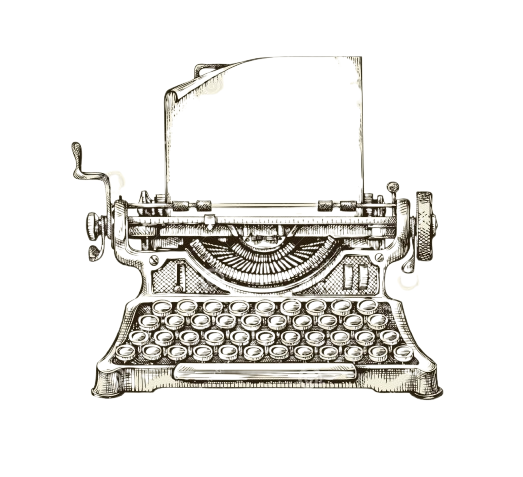
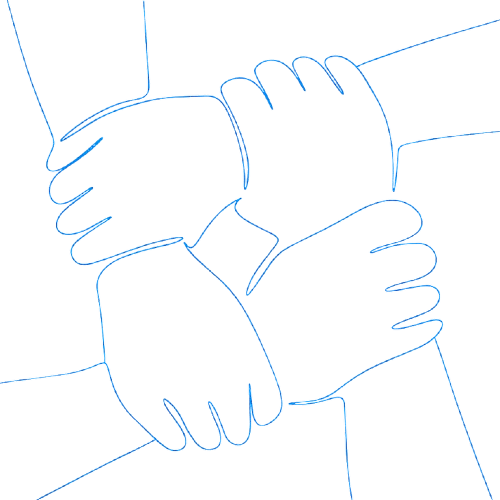
gotove sve stranice

diff --git a/Tascoder/src/pages/start/Start.css b/Tascoder/src/pages/start/Start.css
@@ -1,23 +1,136 @@
 #startNowSection {
+  margin-top: 68px;
+  margin-bottom: -25rem;
   height: 50rem;
   display: flex;
   align-items: center;
   justify-content: center;
 }
 
-#startNowTitleHolder {
+#startNowLeftside {
+  height: 100%;
+  background: linear-gradient(180deg, #256bff, #cfdfff);
   display: flex;
-  align-items: center;
+  flex-direction: column;
   justify-content: center;
-  width: 80%;
-  margin: auto;
+  align-items: center;
+  width: 50%;
+  transform: skewX(25deg);
+  z-index: -1;
+  position: relative;
+  left: -12rem;
 }
 
-#startNowTitleHolder h2 {
+#startNowDescriptionHolder {
+  display: flex;
+  flex-direction: column;
+  justify-content: space-between;
+  align-items: center;
+  height: 22rem;
+  transform: skewX(335deg);
+  width: 37rem;
+  position: relative;
+  left: 15%;
+}
+
+#startNowDescriptionHolder h3 {
   font-size: 2rem;
-  font-weight: 500;
 }
 
-#startNowTitleHolder img {
-  width: 2rem;
+#startNowDescriptionHolder p {
+  font-size: 22px;
+  width: 60%;
+}
+
+#startNowSection form {
+  width: 50%;
+  display: flex;
+  flex-direction: column;
+  align-items: center;
+  justify-content: space-around;
+  height: 30rem;
+}
+
+#startNowFillOut {
+  display: flex;
+  flex-direction: row;
+  flex-wrap: wrap;
+  align-items: center;
+  justify-content: space-between;
+  width: 35rem;
+  height: 10rem;
+}
+
+#startNowSection form h2 {
+  font-size: 32px;
+}
+
+#startNowFillOut input {
+  width: 10rem;
+  height: 26px;
+  border-radius: 10px;
+  border: 1px solid #babcbf;
+  font-size: 1rem;
+  padding-left: 10px;
+}
+
+#startNowFillOut input:focus-visible {
+  outline: 1px solid #246aff;
+}
+
+#startNowFillOut label {
+  width: 5rem;
+}
+
+#startNowTerms {
+  display: flex;
+  flex-direction: column;
+  justify-content: space-between;
+  height: 11rem;
+  width: 12rem;
+}
+
+#startNowAccept {
+  display: flex;
+  width: 237px;
+  align-items: center;
+  justify-content: space-between;
+  flex-wrap: wrap;
+  height: 6rem;
+  margin: 16px 0 0 -183px;
+}
+
+#startNowAccept input {
+  margin: 0;
+  width: 1rem;
+  height: 1rem;
+  border: 1px solid #babcbf;
+}
+
+#startNowAccept p {
+  margin: 0;
+}
+
+#startNowRegisterBtn {
+  background: linear-gradient(135deg, #6d9bff, #2168ff);
+  padding: 6px 12px 6px 12px;
+  border-radius: 8px;
+  text-decoration: none;
+  transition: all 0.5s;
+  font-size: 18px;
+  color: black;
+}
+
+#startNowRegisterBtn:hover {
+  font-weight: bold;
+  color: black;
+  background: linear-gradient(135deg, #2168ff, #6d9bff);
+}
+
+#startNowLoginOption {
+  margin-left: -183px;
+}
+
+.startNowLoginLink {
+  color: #2168ff;
 }

diff --git a/Tascoder/src/pages/start/Start.jsx b/Tascoder/src/pages/start/Start.jsx
@@ -1,17 +1,58 @@
 import "./Start.css";
 import Footer from "../../components/Footer";
 import MainHeader from "../../components/MainHeader";
-import logo from "../../assets/tascoderLogo.png";
+import { Link } from "react-router";
 
 export default function Start() {
   return (
     <>
       <MainHeader />
       <section id="startNowSection">
-        <div id="startNowTitleHolder" >
-          <h2>tascoder</h2>
-          <img src={logo} alt="" />
+        <div id="startNowLeftside">
+          <div id="startNowDescriptionHolder">
+            <h3>Start here</h3>
+            <p>
+              Lorem ipsum dolor sit amet, consectetur adipiscing elit. Proin
+              lacinia, leo quis interdum ullamcorper, metus turpis semper augue,
+              et condimentum metus nunc ac odio. In placerat hendrerit elit, in
+              malesuada eros aliquet eu.
+            </p>
+          </div>
         </div>
+        <form>
+          <h2>sign up</h2>
+          <div id="startNowFillOut">
+            <label htmlFor="startFname">First name</label>
+            <input
+              type="text"
+              id="startFname"
+              name="Fname"
+              autoComplete="given-name"
+            />
+            <label htmlFor="startLname">Last name</label>
+            <input
+              type="text"
+              id="startLname"
+              name="Lname"
+              autoComplete="family-name"
+            />
+            <label htmlFor="startPassw">Password</label>
+            <input type="text" id="startPassw" name="Passw" />
+            <label htmlFor="startPhone">Phone</label>
+            <input type="tel" id="startPhone" name="Phone" autoComplete="tel" />
+          </div>
+          <div id="startNowTerms">
+            <div id="startNowAccept">
+              <input type="checkbox"></input>
+              <p>Agree to <Link to="terms" className="startNowLoginLink">terms</Link> and <Link to="conditions" className="startNowLoginLink">conditions</Link></p>
+              <a href="#" id="startNowRegisterBtn">Register</a>
+            </div>
+            <div id="startNowLoginOption">
+              <p>Already have an account? <Link to="login" className="startNowLoginLink">Login</Link></p>
+              
+            </div>
+          </div>
+        </form>
       </section>
       <Footer />
     </>

diff --git a/Tascoder/src/pages/support/Support.css b/Tascoder/src/pages/support/Support.css
@@ -13,17 +13,12 @@
   z-index: 1;
   font-size: 12rem;
   text-align: center;
-  color: #000000;
-}
-
-#availableOptionsTitleHolder span {
-  color: #2c6dfa;
 }
 
 #availableOptionsTitleHolder img {
   position: absolute;
-  filter: drop-shadow(0px 0px 2px black) hue-rotate(181deg) blur(3px)
+  filter: drop-shadow(0px 0px 2px black) blur(3px)
     brightness(1.2);
-  width: 44rem;
-  top: 48px;
+  width: 31rem;
+  top: 140px;
 }

diff --git a/Tascoder/src/pages/support/Support.jsx b/Tascoder/src/pages/support/Support.jsx
@@ -9,7 +9,7 @@ export default function Support() {
     <>
       <MainHeader />
       <div id="availableOptionsTitleHolder">
-        <h2>SU<span>PPO</span>RT</h2>
+        <h2>SUPPORT</h2>
         <img src={typewriter} alt="" />
       </div>
       <AvailableOptions></AvailableOptions>
